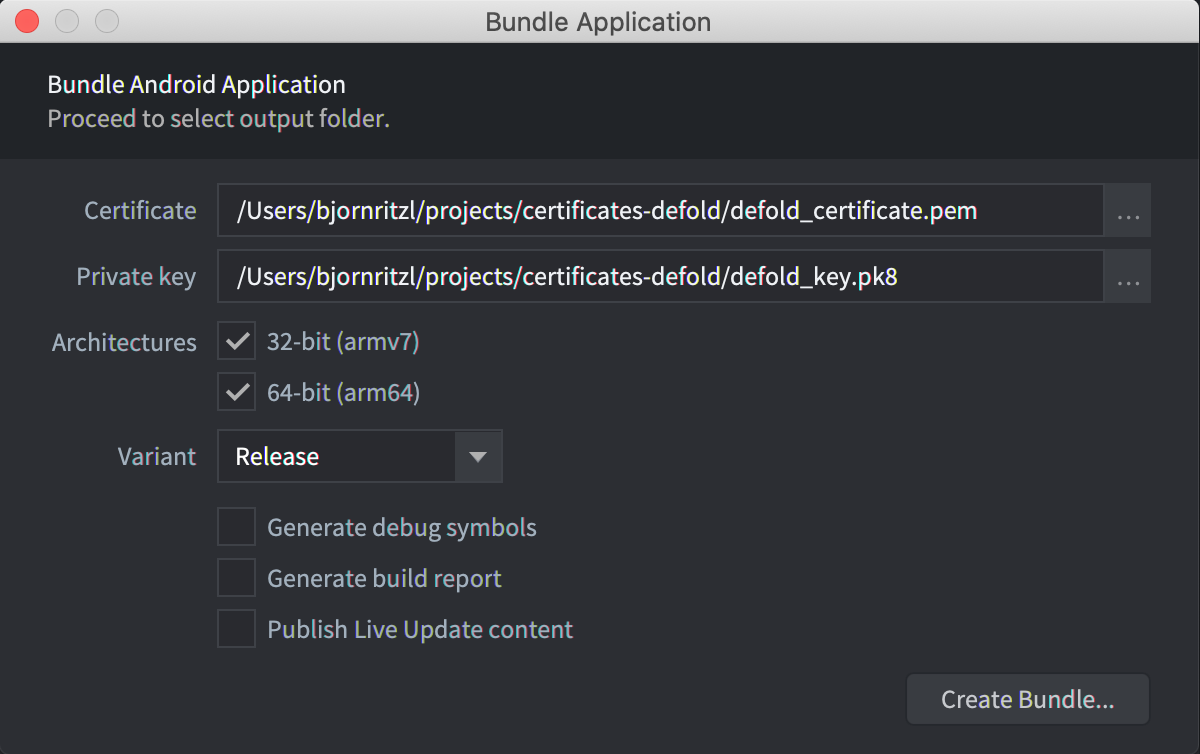
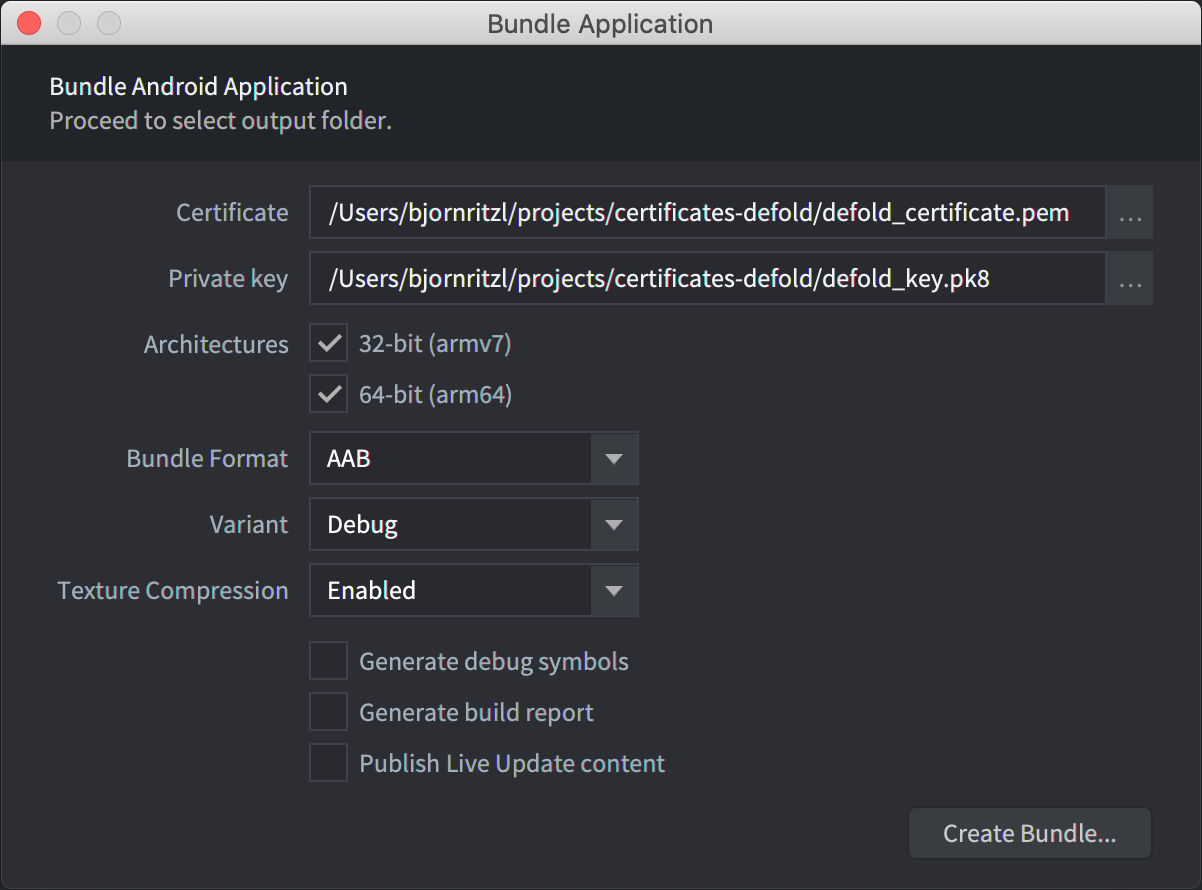
Updated Android bundling docs

diff --git a/docs/en/manuals/android.md b/docs/en/manuals/android.md
@@ -11,9 +11,9 @@ Android devices allows you to freely run your own apps on them. It is very easy 
 
 Android requires that apps that you want to install are digitally signed. Unlike iOS where all certificates are issued by Apple, Android allows self signed apps so you can freely create certificates and keys required to sign apps.
 
-The process of creating certificates and keys may seem complicated but as long as you are in development, Defold fully automates the process. When you create an Android application bundle from the editor you can provide a specific certificate and key. If you don't, Defold generates a random certificate and a key and signs the resulting *.apk* (Android Application Package) file.
+The process of creating certificates and keys may seem complicated but as long as you are in development, Defold fully automates the process. When you create an Android application bundle from the editor you can provide a specific certificate and key. If you don't, Defold generates a random certificate and a key and signs the resulting application bundle automatically.
 
-It is important to note that when it is time to release an app on Google Play, you will need to create a certificate and key that you use to sign the app. The reason is that when you intend to publish an updated version of the app, _the updated *.apk* file needs to be signed with the same signature as the current version_. If you sign with a different private key, Google Play will reject the *.apk* update and you will need to publish the game as a totally new app.
+It is important to note that when it is time to release an app on Google Play, you will need to create a certificate and key that you use to sign the app. The reason is that when you intend to publish an updated version of the app, _the updated application bundle needs to be signed with the same signature as the current version_. If you sign with a different private key, Google Play will reject the update and you will need to publish the game as a totally new app.
 
 You can find more information from the [Google Play developer console](https://play.google.com/apps/publish/).
 
@@ -31,12 +31,14 @@ $ openssl pkcs8 -topk8 -outform DER -in key.pem -inform PEM -out key.pk8 -nocryp
 This will leave you with the files *certificate.pem* and *key.pk8* that you can use to sign your application bundles.
 
 ::: important
-Make sure that you store your certificate and key safely. If you lose them you will _not_ be able to upload updated *.apk* file versions to Google Play.
+Make sure that you store your certificate and key safely. If you lose them you will _not_ be able to upload updated application versions to Google Play.
 :::
 
 ## Creating an Android application bundle
 
-The editor lets you easily create a stand alone application bundle for your game. Before bundling you can specify what icon(s) to use for the app, set version code etc in the "game.project" [project settings file](/manuals/project-settings/#android). To bundle select <kbd>Project ▸ Bundle... ▸ Android Application...</kbd> from the menu.
+The editor lets you easily create a stand alone application bundle for your game. Before bundling you can specify what icon(s) to use for the app, set version code etc in the "game.project" [project settings file](/manuals/project-settings/#android).
+
+To bundle select <kbd>Project ▸ Bundle... ▸ Android Application...</kbd> from the menu.
 
 If you want the editor to automatically create random debug certificates, leave the *Certificate* and *Private key* fields empty:
 
@@ -46,13 +48,17 @@ If you want to sign your bundle with a particular certificate and key, specify t
 
 ![Signing Android bundle](images/android/sign_bundle2.png)
 
-Press <kbd>Create Bundle</kbd> and you will then be prompted to specify where on your computer the bundle will be created.
+Defold supports the creation of both APK and AAB files. Select APK or AAB from the Bundle Format drop down.
+
+Press <kbd>Create Bundle</kbd> when you have configured the application bundle settings. You will then be prompted to specify where on your computer the bundle will be created.
 
 ![Android Application Package file](images/android/apk_file.png)
 
 ### Installing an Android application bundle
 
-The editor writes an *.apk* file which is an Android application bundle. This file can be copied to your device with the `adb` tool (see below), or to Google Play via the [Google Play developer console](https://play.google.com/apps/publish/).
+### Installing an APK
+
+An *.apk* file can be copied to your device with the `adb` tool (see below), or to Google Play via the [Google Play developer console](https://play.google.com/apps/publish/).
 
 ```
 $ adb install Defold\ examples.apk
@@ -60,6 +66,10 @@ $ adb install Defold\ examples.apk
   pkg: /data/local/tmp/my_app.apk
 Success
 ```
+
+#### Installing an AAB
+
+An *.aab* file can be uploaded to Google Play via the [Google Play developer console](https://play.google.com/apps/publish/). It is also possible to generate an *.apk* file from an *.aab* file to install it locally using the [Android bundletool](https://developer.android.com/studio/command-line/bundletool).
 
 ## Permissions
 
